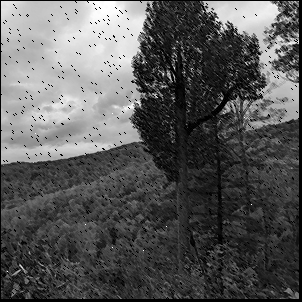
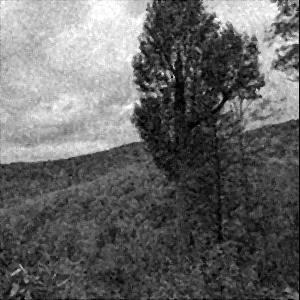
fix the noise functions and finished tab1

diff --git a/static/js/main.js b/static/js/main.js
@@ -1,83 +1,88 @@
 console.log("Hello there!");
 
 const header = document.querySelector(".header");
-const input_btns = document.querySelectorAll(".input-btn");
+const inputButtons = document.querySelectorAll(".input-btn");
+
 const tab1Content = document.getElementById("tab1");
 const tab2Content = document.getElementById("tab2");
 const tab3Content = document.getElementById("tab3");
-const tab1_btn = document.getElementById("tab1-btn");
-const tab2_btn = document.getElementById("tab2-btn");
-const tab3_btn = document.getElementById("tab3-btn");
-const inputImageOne = document.querySelector(".input_img");
-const inputOutput = document.querySelector(".input-output");
-const outputImage = document.getElementById("output_img");
-const submit_btn = document.getElementById("submit-btn");
+
+const tab1Button = document.getElementById("tab1-btn");
+const tab2Button = document.getElementById("tab2-btn");
+const tab3Button = document.getElementById("tab3-btn");
+
+const imagesContainers = document.getElementById("images-containers");
+const outputImageContainer = document.getElementById("output-img-container");
+
+const submitButton = document.getElementById("submit-btn");
+
+const filterSelect = document.getElementById("filter-select");
+const noiseSelect = document.getElementById("noise-select");
+
+const inputImageOne = document.getElementById("input-img-1");
+const inputImageTwo = document.getElementById("input-img-2");
+const outputImage = document.getElementById("output-img");
+
 const files = [2];
 
-const filter_select = document.getElementById("filter-select");
-const noise_select = document.getElementById("noise-select");
-
-input_btns[0].addEventListener("change", function (e) {
-  const file = input_btns[0].files[0];
+inputButtons[0].addEventListener("change", function (_) {
+  const file = inputButtons[0].files[0];
   files[0] = file;
   inputImageOne.classList.remove("hide");
   inputImageOne.src = URL.createObjectURL(file);
 });
 
-input_btns[1].addEventListener("change", function (e) {
-  const file = input_btns[1].files[0];
-  console.log(file);
+inputButtons[1].addEventListener("change", function (_) {
+  const file = inputButtons[1].files[0];
   files[1] = file;
-  const inputImageTwo = document.getElementById("input-img-2");
-  console.log(inputImageTwo);
   inputImageTwo.classList.remove("hide");
   inputImageTwo.src = URL.createObjectURL(file);
 });
 
-tab1_btn.addEventListener("click", function (e) {
-  tab1_btn.classList.add("active");
-  tab2_btn.classList.remove("active");
-  tab3_btn.classList.remove("active");
+tab1Button.addEventListener("click", function (_) {
+  tab1Button.classList.add("active");
+  tab2Button.classList.remove("active");
+  tab3Button.classList.remove("active");
   tab1Content.classList.remove("hide");
   tab2Content.classList.add("hide");
   tab3Content.classList.add("hide");
 
   header.textContent = "Frequency Filters";
-  document.getElementById("input_img-2").classList.add("hide");
+  document.getElementById("input-img-2-container").classList.remove("hide");
 });
 
-tab2_btn.addEventListener("click", function (e) {
-  tab1_btn.classList.remove("active");
-  tab2_btn.classList.add("active");
-  tab3_btn.classList.remove("active");
+tab2Button.addEventListener("click", function (_) {
+  tab1Button.classList.remove("active");
+  tab2Button.classList.add("active");
+  tab3Button.classList.remove("active");
   tab1Content.classList.add("hide");
   tab2Content.classList.remove("hide");
   tab3Content.classList.add("hide");
 
   header.textContent = "Histogram Operations";
-  document.getElementById("input_img-2").classList.add("hide");
+  document.getElementById("input-img-2-container").classList.add("hide");
 });
 
-tab3_btn.addEventListener("click", function (e) {
-  tab1_btn.classList.remove("active");
-  tab2_btn.classList.remove("active");
-  tab3_btn.classList.add("active");
+tab3Button.addEventListener("click", function (_) {
+  tab1Button.classList.remove("active");
+  tab2Button.classList.remove("active");
+  tab3Button.classList.add("active");
   tab1Content.classList.add("hide");
   tab2Content.classList.add("hide");
   tab3Content.classList.remove("hide");
 
   header.textContent = "Hybrid images";
-  document.getElementById("input_img-2").classList.remove("hide")
+  document.getElementById("input-img-2-container").classList.remove("hide")
 });
 
-// tab1_btn.addEventListener("click", function (e) {
+// tab1_btn.addEventListener("click", function (_) {
 
 // });
 // const input = document.getElementById("image_input")
 // const output = document.getElementById("image_output")
 // let imagesArray = []
 
-// image_input.addEventListener("change", function(e) {
+// image_input.addEventListener("change", function(_) {
 //     const file = input.files
 //     imagesArray.push(file[0])
 //     displayImages()
@@ -91,15 +96,13 @@ tab3_btn.addEventListener("click", function (e) {
 
 function submitClick(tabNum) {
   let formData = new FormData();
+  formData.set("image1", files[0]);
   if (tabNum == 1) {
-    formData.set("image1", files[0]);
-    formData.set("operation1", noise_select.value);
-    formData.set("operation2", filter_select.value)
+    formData.set("operation1", noiseSelect.value);
+    formData.set("operation2", filterSelect.value)
   } else if (tabNum == 2) {
-    formData.set("image1", files[0]);
-    formData.set("operation1", noise_select.value);
+    formData.set("operation1", noiseSelect.value);
   } else if (tabNum == 3) {
-    formData.set("image1", files[0]);
     formData.set("image2", files[1]);
   }
   $.ajax({
@@ -111,20 +114,18 @@ function submitClick(tabNum) {
     contentType: false,
     async: true,
     success: function (_) {
-      outputImage.innerHTML = "";
-      image = document.createElement("img");
-      image.style.width = "100%";
-      image.src = "static/assets/filtered_image.png?t=" + new Date().getTime();
-      outputImage.appendChild(image);
+      outputImage.src = "static/assets/filtered_image.png?t=" + new Date().getTime();
+      if (tabNum == 1) {
+        inputImageTwo.src = "static/assets/noisy_image.png?t=" + new Date().getTime();
+      }
     },
   });
 }
 
-console.log(submit_btn);
-submit_btn.addEventListener("click", function (e) {
-  if (tab1_btn.classList.contains("active")) submitClick(1);
+submitButton.addEventListener("click", function (e) {
+  if (tab1Button.classList.contains("active")) submitClick(1);
 
-  else if (tab2_btn.classList.contains("active")) submitClick(2);
+  else if (tab2Button.classList.contains("active")) submitClick(2);
 
-  else if (tab3_btn.classList.contains("active")) submitClick(3);
+  else if (tab3Button.classList.contains("active")) submitClick(3);
 });

diff --git a/templates/index.html b/templates/index.html
@@ -23,22 +23,30 @@
     <!-- Tab content for frequency filters-->
     <div id="filter" class="tabcontent">
         <h1 class="header">Frequency Filters</h1>
-        <!-- <button>upload image</button> -->
-        <input class="input-btn" type="file" accept="image/jpeg, image/png, image/jpg">
 
-        <div class="input-output">
-            <!-- input image -->
-            <div id="input_img" class="img">
-                <img class="input_img hide" width="100%">
+        <div class="images-containers">
+            <!-- input image 1 -->
+            <div id="input-image-1-container" class="img">
+                <img id="input-img-1" width="100%">
+            </div>
 
+            <!-- input image 2 -->
+            <div id="input-img-2-container" class="img">
+                <img id="input-img-2" width="100%">
             </div>
-            <div id="input_img-2" class="img hide">
-                <img class="input_img hide" id="input-img-2" width="100%">
-            </div>
+
             <!-- output image  -->
-            <div id="output_img" class="img"></div>
+            <div id="output-img-container" class="img">
+                <img id="output-img" width="100%">
+            </div>
 
         </div>
+
+        <!-- upload image 1 -->
+        <input class="input-btn" type="file" accept="image/jpeg, image/png, image/jpg">
+
+        <!-- upload image 2 -->
+        <input class="input-btn hide" id="tab3" type="file" accept="image/jpeg, image/png, image/jpg">
 
         <div class="options" id="tab1">
             <!-- noise select -->
@@ -59,6 +67,7 @@
                 <option value="high-pass">high pass</option> -->
             </select>
         </div>
+
         <div class="options hide" id="tab2">
             <button>equalize image</button>
             <button>normalize image</button>
@@ -66,13 +75,8 @@
             <button>local thresholding</button>
             <input type="range" min="2" max="20" step="1">
         </div>
-        <div class="input-output hide" id="tab3">
-            <input class="input-btn" type="file" accept="image/jpeg, image/png, image/jpg">
 
-        </div>
         <button type="submit" id="submit-btn">Submit</button>
-
-
 
     </div>
 
@@ -83,11 +87,11 @@
         <h1>Histogram Operations</h1>
         <button>upload image</button> -->
 
-    <!-- <div class="input-output">
+    <!-- <div class="images-containers">
             input image
         <div id="input_img" class="img"></div>
          output image  
-        <div id="output_img" class="img"></div>
+        <div id="output-img-container" class="img"></div>
     </div> -->
 
     <!-- </div> -->
@@ -98,6 +102,5 @@
 
 <script defer src="{{url_for('static', filename = './js/main.js')}}"></script>
 <script defer src="{{url_for('static', filename = './js/jquery-3.6.1.min.js')}}"></script>
-
 
 </html>

diff --git a/static/css/index.css b/static/css/index.css
@@ -53,7 +53,7 @@ button:hover{
     background-size: cover;
     margin: 0.5rem 2rem;
 }
-.input-output {
+.images-containers {
     display: flex;
     justify-content: center;
 }

diff --git a/filters.py b/filters.py
@@ -4,10 +4,9 @@ import cv2
 import numpy as np
 import scipy.signal as sig
 
+# --------------------------------- Add Noise -------------------------------------
 
-# --------------------------------- ADD Noise -------------------------------------
-
-def salt_pepper_noise(image,prob = 1/100):
+def salt_pepper_noise(image, prob = 0.05):
     '''
     Add salt and pepper noise to image
     prob: Probability of the noise
@@ -25,29 +24,16 @@ def salt_pepper_noise(image,prob = 1/100):
                 noisy_image[i][j] = image[i][j]
     return noisy_image
 
-def gaussian_noise(image):
-    row,col= image.shape
-    mean = 0
-    var = 0.1
-    sigma = var**0.5
-    gauss = np.random.normal(mean,sigma,(row,col))
-    gauss = gauss.reshape(row,col)
-    noisy_image = image + gauss
+def gaussian_noise(image, mean=0, std=0.1):
+    noise = np.multiply(np.random.normal(mean, std, image.shape), 255)
+    noisy_image = np.clip(image.astype(int)+noise, 0, 255)
     return noisy_image
 
-def unifrom_noise(image):
-    x, y = image.shape
-    mean = 0
-    max = 0.1
-    noise = np.zeros((x,y), dtype=np.float64)
-    for i in range(x):
-        for j in range(y):
-            noise[i][j] = np.random.uniform(mean,max)
-    noisy_img = image + noise
-    # noise_img +=255
-    noisy_img = noisy_img*255
-    noisy_img = np.clip(noise,0,1)
-    return noisy_img
+def uniform_noise(image, prob=0.1):
+    levels = int((prob * 255) // 2)
+    noise = np.random.uniform(-levels, levels, image.shape)
+    noisy_image = np.clip(image.astype(int) + noise, 0, 255)
+    return noisy_image
 
 # --------------------------------- Noise Filters -------------------------------------
 
@@ -71,20 +57,26 @@ def gaussian_filter(image, mask_size = 3,sigma = 1):
     filtered_image = sig.convolve2d(image, mask, mode="same")
     return filtered_image
 
-def median_filter(image,filter_size = 3):
-    # Make an image with the same size of the original
+def median_filter(image, filter_size = 3):
     row, col = image.shape
-    filtered_image = np.zeros([row+2,col+2])
-
-    # Index that is used for every filter size
+    filtered_image = np.zeros([row,col])
     filter_index = filter_size // 2
-    for i in range(1, row-1):
-        for j in range(1, col-1):
+
+    for i in range(row):
+        for j in range(col):
             temp = []
-            for k in range(-filter_index,filter_index):
-                temp.append(image[i+k, j+k])
-            filtered_image[i, j]= stat.median_low(sorted(temp))
-    
+            for z in range(filter_size):
+                if i + z - filter_index < 0 or i + z - filter_index > row - 1:
+                    for _ in range(filter_size):
+                        temp.append(0)
+                elif j + z - filter_index < 0 or j + filter_index > col - 1:
+                    temp.append(0)
+                else:
+                    for k in range(filter_size):
+                        temp.append(image[i + z - filter_index][j + k - filter_index])
+
+            temp.sort()
+            filtered_image[i][j] = temp[len(temp) // 2]
     return filtered_image
 
 # --------------------------------- Edge Detection Filters -------------------------------------
@@ -94,8 +86,8 @@ def canny_edge_detection(img, weak_th = None, strong_th = None):
 # weak_th and strong_th are thresholds for double thresholding step
        
     # Noise reduction step
-    img = cv2.GaussianBlur(img, (5, 5), 1.4)
-       
+    img = gaussian_filter(img)
+
     # Calculating the gradients
     gx = cv2.Sobel(np.float32(img), cv2.CV_64F, 1, 0, 3)
     gy = cv2.Sobel(np.float32(img), cv2.CV_64F, 0, 1, 3)

diff --git a/app.py b/app.py
@@ -9,7 +9,7 @@ app = Flask(__name__)
 
 filterOperationsDict = {
     "gaussianNoise":filters.gaussian_noise,
-    "uniformNoise":filters.unifrom_noise,
+    "uniformNoise":filters.uniform_noise,
     "saltAndPepper": filters.salt_pepper_noise,
     "gaussianFilter":filters.gaussian_filter,
     "averageFilter":filters.average_filter,
@@ -70,8 +70,8 @@ def tab2():
     operation1 = request.form['operation1']
 
     # Retrieve the output image after executing the operation
-    output_image = executeFilterOperation(operation1, input_image)
-    cv2.imwrite("static/assets/histogram_output_image.png",output_image)
+    output_image = executeHistogramOperation(operation1, input_image)
+    cv2.imwrite("static/assets/histogram_image.png",output_image)
     
     return "tab2"
 

diff --git a/histograms.py b/histograms.py
@@ -124,7 +124,7 @@ def rgb_to_grayscale(image, type = "UHDTV"):
 def rgb_hist_cumulative(image):
     # calculate mean value from RGB channels and flatten to 1D array
     # vals = image.mean(axis=2).flatten()
-    #get the rgb channels
+    # get the rgb channels
     r_vals, g_vals, b_vals = rgb_split(image)
     r_hist = twoD_fast_hist(r_vals)
     g_hist = twoD_fast_hist(g_vals)
